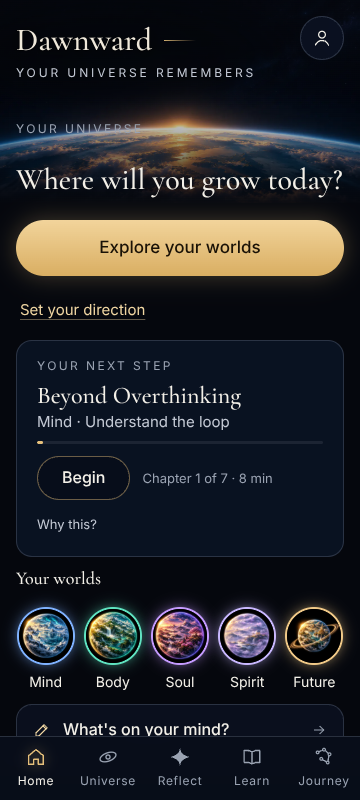
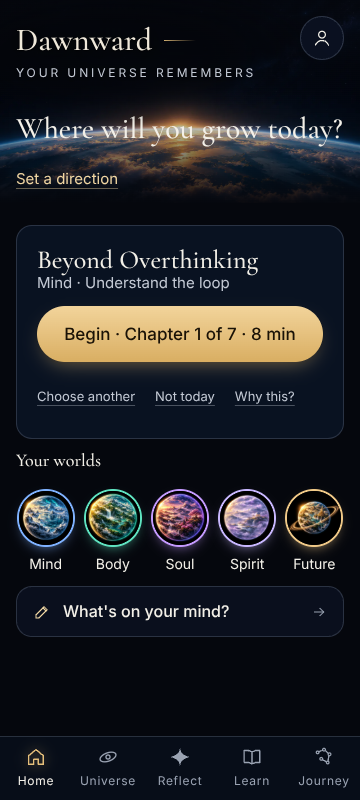
Dawnward: simpler Home and Reflect, from the Impeccable critique
- Home: the next step is the one gold button ("Begin · Chapter 1 of
  7 · 8 min"); the detour button is gone. Choose another, Not today
  and Why this? sit in one visible row of 44 px targets. No progress
  bar until there's progress. Your direction is one quiet line under
  the question.
- Reflect: the name, painting and question follow the world you
  choose. "Private" is a quiet status, not a switch. Speak is a quiet
  round mic. Escape does what Close does. After saving you stay in
  Reflect, with one "Done".
- No labels above headings; glows become real shadows.
- Long sentences across the app shortened, keeping facts and safety
  lines.

Tests: e2e-redesign 53/53; selectors updated in the other suites.

Claude-Session: https://claude.ai/code/session_01VwDdzxXQgm8dNbRYiSeJvs

diff --git a/dawnward/experience/src/home.js b/dawnward/experience/src/home.js
@@ -445,15 +445,18 @@ function main(data, failed) {
     const chips = el("div", { class: "seg", role: "radiogroup", "aria-label": "Which world it belongs to", hidden: true });
     const worldBtn = el("button", { class: "ed-chip", "aria-expanded": "false", "aria-label": `World: ${META[state.draftWorld].name}. Change`, onclick: () => { chips.hidden = !chips.hidden; worldBtn.setAttribute("aria-expanded", String(!chips.hidden)); if (!chips.hidden) chips.querySelector('[aria-checked="true"]')?.focus(); } });
     const drawWorld = () => { worldBtn.replaceChildren(el("span", { class: `ed-dot dot-${state.draftWorld}`, "aria-hidden": "true" }), META[state.draftWorld].name, el("span", { class: "ed-caret", "aria-hidden": "true" }, "▾")); worldBtn.setAttribute("aria-label", `World: ${META[state.draftWorld].name}. Change`); };
-    const privBtn = el("button", { class: "ed-chip", "aria-expanded": "false", "aria-controls": "ed-private", onclick: () => { privacy.hidden = !privacy.hidden; privBtn.setAttribute("aria-expanded", String(!privacy.hidden)); } },
-      el("span", { html: svg(ICON.lock, 14) }), "Private");
+    const privBtn = el("span", { class: "ed-private-tag", title: privacy.textContent }, el("span", { html: svg(ICON.lock, 14) }), "Private");
     for (const k of ORDER) chips.append(el("button", { role: "radio", "aria-checked": String(k === state.draftWorld), onclick: () => {
+      const was = state.draftWorld;
       state.draftWorld = k; chips.querySelectorAll("button").forEach((b) => b.setAttribute("aria-checked", String(b.textContent === META[k].name))); drawWorld(); saveDraft(ta.value, status);
+      // the whole screen follows: name, painting, and the world's own question
+      $("w-name").textContent = META[k].name; $("closeup-img").src = asset(`img/worlds/closeup-${k}.webp`); document.body.dataset.world = k;
+      const q = $("ed-q"); if (q.textContent === META[was].q) q.textContent = META[k].q;
       chips.hidden = true; worldBtn.setAttribute("aria-expanded", "false"); worldBtn.focus();
     } }, META[k].name));
     drawWorld();
     const vstate = el("span", { class: "vstate" }, "Speak");
-    const micBtn = SR ? el("button", { class: "mic quietmic", "aria-pressed": "false", onclick: () => toggleSpeech(micBtn, vstate, ta, status) }, el("span", { class: "mic-orb", html: svg(ICON.mic, 18) }), vstate) : null;
+    const micBtn = SR ? el("button", { class: "mic quietmic", "aria-pressed": "false", "aria-label": "Speak", onclick: () => toggleSpeech(micBtn, vstate, ta, status) }, el("span", { class: "mic-orb", html: svg(ICON.mic, 18) }), vstate) : null;
     ta.addEventListener("input", () => { fit(); clearTimeout(autosave); autosave = setTimeout(() => saveDraft(ta.value, status), 400); });
     sheet(META[state.draftWorld].q, null,
       el("div", { class: "ed-meta" }, worldBtn, privBtn), chips, privacy,
@@ -573,18 +576,20 @@ function main(data, failed) {
       el("div", { class: "actions" }, el("button", { class: "ghost", onclick: () => goHome() }, "Return to your galaxy")));
   }
   function showNewStar(id, reply) {
-    quiet(false);
+    quiet(true);
     const s = id && starById(id);
     if (!s) { sheet("Kept", null, el("p", {}, reply ?? "Kept, word for word."), el("div", { class: "actions" }, el("button", { class: "primary", onclick: () => openMemories() }, "See your memories"))); return; }
     state.selStar = id; highlight();
     const sug = suggestions().find((x) => x.a === id || x.b === id);
-    sheet(`A new star in ${META[s.world].name}`, longDate(s.date),
+    sheet(`A new star in ${META[s.world].name}`, null,
+      el("p", { class: "quiet small" }, longDate(s.date)),
       el("blockquote", { class: "said" }, el("p", {}, s.excerpt)),
       el("p", { class: "quiet" }, reply ?? `Kept ${keptWhere}, word for word.`),
       sug ? connectionCard(sug, () => showNewStar(id, reply)) : el("p", { class: "quiet" }, "One evening is a note, not a pattern. Nothing is concluded from it."),
       el("div", { class: "actions" },
-        el("button", { class: "primary", onclick: () => openMemories({ select: id }) }, "See it in your memories"),
-        el("button", { class: "ghost", onclick: () => { worldIntro(state.world); $("w-q").focus(); } }, `Back to ${META[state.world].name}`)));
+        el("button", { class: "primary", onclick: () => closeEditor() }, "Done"),
+        el("button", { class: "text-btn", onclick: () => { quiet(false); openMemories({ select: id }); } }, "See it in your Journey")));
+    wbody.querySelector(".text-btn.back")?.remove();
   }
 
   // ----- possible connections: a shared word between two of your own evenings -----
@@ -1061,21 +1066,18 @@ function main(data, failed) {
   const direction = () => device.read(DIRECTION, null);
   function nextCard(pick) {
     const { m } = pick, total = m.steps.length;
-    const meta = pick.resume ? `${pick.step + 1} of ${total}` : m.chapter ? `Chapter ${m.chapter} of ${chaptersIn(m)} · ${m.minutes} min` : `${m.minutes} min`;
+    const meta = pick.resume ? `${pick.step + 1} of ${total} · ${m.minutes} min` : m.chapter ? `Chapter ${m.chapter} of ${chaptersIn(m)} · ${m.minutes} min` : `${m.minutes} min`;
     return el("article", { class: "nextcard", "aria-labelledby": "c-title" },
-      el("p", { class: "kicker" }, "Your next step"),
       el("h3", { id: "c-title", class: "c-title" }, m.title),
-      el("p", { class: "c-part" }, `${META[m.world].name} · ${m.part.replace(/^Chapter \d+: /, "")}${m.status === "draft" ? " · draft" : ""}`),
-      el("div", { class: "c-bar", role: "progressbar", "aria-label": "Your progress through this expedition", "aria-valuemin": "0", "aria-valuemax": String(total), "aria-valuenow": String(pick.step), "aria-valuetext": pick.step ? `${pick.step + 1} of ${total}` : "Not started" },
-        el("span", { style: `width:${Math.round((100 * pick.step) / total)}%` })),
+      el("p", { class: "c-part" }, `${META[m.world].name} · ${m.part.replace(/^Chapter \d+: /, "")}`),
+      pick.step ? el("div", { class: "c-bar", role: "progressbar", "aria-label": "Progress", "aria-valuemin": "0", "aria-valuemax": String(total), "aria-valuenow": String(pick.step), "aria-valuetext": `${pick.step + 1} of ${total}` },
+        el("span", { style: `width:${Math.round((100 * pick.step) / total)}%` })) : null,
+      el("button", { class: "primary wide", onclick: () => explore.play(m.id, { from: fromHome }) }, `${pick.resume ? "Continue" : "Begin"} · ${meta}`),
       el("div", { class: "c-row" },
-        el("button", { class: "ghost", onclick: () => explore.play(m.id, { from: fromHome }) }, pick.resume ? "Continue" : "Begin"),
-        el("span", { class: "c-meta" }, meta)),
-      el("details", { class: "c-why" }, el("summary", {}, "Why this?"),
-        el("p", {}, `${pick.why} Suggestions come only from what you've done in Dawnward${data.local ? ", on this device" : ""}. Nothing is read from your reflections.`),
-        el("div", { class: "c-more" },
-          el("button", { class: "text-btn", onclick: () => explore.open() }, "Choose another"),
-          el("button", { class: "text-btn", onclick: () => { try { localStorage.setItem(COMPASS_HIDE, localDay()); } catch {} drawEarth(); $("e-title").focus(); announce("No suggestion today."); } }, "Not today"))));
+        el("button", { class: "text-btn", onclick: () => explore.open() }, "Choose another"),
+        el("button", { class: "text-btn", onclick: () => { try { localStorage.setItem(COMPASS_HIDE, localDay()); } catch {} drawEarth(); $("e-title").focus(); announce("No suggestion today."); } }, "Not today"),
+        el("details", { class: "c-why" }, el("summary", {}, "Why this?"),
+          el("p", {}, `${pick.why} Based only on what you've done here, never on what you write.`))));
   }
   /** Your direction: one line you choose, kept on this device, in a small sheet. */
   function directionSheet() {
@@ -1094,13 +1096,13 @@ function main(data, failed) {
         $("dir-h").focus(); return;
       }
       const ok = t ? device.write(DIRECTION, { text: t, at: new Date().toISOString() }) : device.remove(DIRECTION);
-      if (!ok) { err.textContent = "I couldn't keep that on this device."; return; }
+      if (!ok) { err.textContent = "Couldn't save it on this device. Copy it somewhere safe and try again."; return; }
       close(); drawEarth(); announce(t ? "Direction saved." : "Direction cleared.");
     };
     dlg.append(el("h2", { id: "dir-h", class: "s-title" }, "Your direction"),
       el("label", { id: "dir-q", for: "dir-text" }, "What do you want to change?"), ta, err,
       el("div", { class: "actions" }, el("button", { class: "primary", onclick: keep }, "Save"), el("button", { class: "ghost", onclick: close }, "Cancel")),
-      el("p", { class: "quiet small" }, data.local ? "Kept on this device." : "Kept in your Dawnward."));
+      el("p", { class: "quiet small" }, data.local ? "Only on this device." : "Only in your Dawnward."));
     dlg.addEventListener("close", () => dlg.remove());
     document.body.append(dlg);
     dlg.showModal();
@@ -1116,27 +1118,29 @@ function main(data, failed) {
     $("e-crumbs").replaceChildren();
     const dir = direction();
     const next = !pick
-      ? el("article", { class: "nextcard" }, el("p", { class: "kicker" }, "Your next step"), el("h3", { class: "c-title" }, "Every open expedition is done"), el("p", { class: "c-part" }, "More are being written. Reflecting is always here."))
+      ? null
       : hidden
-        ? el("div", { class: "nextcard slim" }, el("p", { class: "quiet" }, "No suggestion today."),
+        ? el("div", { class: "nextcard slim" }, el("p", { class: "quiet" }, "No suggestion today"),
             el("button", { class: "text-btn", onclick: () => { try { localStorage.removeItem(COMPASS_HIDE); } catch {} drawEarth(); } }, "Show it"))
         : nextCard(pick);
+    const reflectRow = el("button", { class: "row e-reflect", onclick: () => openEditor(state.lastWorld) },
+      el("span", { class: "ni", html: svg(ICON.pen, 18) }), el("span", { class: "rtitle" }, "What's on your mind?"), el("span", { class: "rgo", html: svg(ICON.arrow, 16) }));
+    // with no next step, writing becomes the one primary action
+    const writeFirst = !pick || hidden ? el("button", { class: "primary wide", onclick: () => openEditor(state.lastWorld) }, "What's on your mind?") : null;
+    $("e-dir").replaceChildren(dir
+      ? el("button", { class: "e-dir-line", id: "e-dir-btn", onclick: directionSheet, "aria-label": `Your direction: ${dir.text}. Edit` }, el("span", { class: "e-dir-to" }, "Toward"), ` ${dir.text}`)
+      : el("button", { class: "text-btn", id: "e-dir-btn", onclick: directionSheet }, "Set a direction"));
     $("e-body").replaceChildren(...[
-      found ? el("div", { class: "card found", role: "status" }, el("p", { class: "kicker" }, "Just discovered"), el("p", { class: "statement" }, found.title), el("p", { class: "why" }, found.why)) : "",
-      el("div", { class: "e-actions" },
-        el("button", { class: "primary wide", onclick: () => goHome() }, "Explore your worlds"),
-        dir ? el("p", { class: "e-dir" }, el("span", { class: "kicker" }, "Your direction"), el("span", { class: "e-dir-text" }, dir.text),
-              el("button", { class: "text-btn", id: "e-dir-btn", onclick: directionSheet, "aria-label": "Edit your direction" }, "Edit"))
-            : el("button", { class: "text-btn e-dir-set", id: "e-dir-btn", onclick: directionSheet }, "Set your direction")),
+      found ? el("div", { class: "card found", role: "status" }, el("p", { class: "statement" }, found.title), el("p", { class: "why" }, found.why)) : null,
       next,
+      writeFirst,
       active[0] ? el("button", { class: "row e-wait", onclick: () => explore.review(active[0].id) },
         el("span", { class: "rtext" }, el("span", { class: "rsub" }, "How did it go?"), el("span", { class: "rtitle" }, active[0].action)), el("span", { class: "rgo", html: svg(ICON.arrow, 16) })) : null,
       el("section", { "aria-labelledby": "e-worlds" },
         el("h3", { id: "e-worlds", class: "e-h" }, "Your worlds"),
         el("div", { class: "wplanets" }, ORDER.map((w) => el("button", { class: `planet-${w}`, onclick: () => goWorld(w), "aria-label": `${META[w].name}: ${META[w].kicker.toLowerCase()}` },
           el("img", { src: asset(`img/worlds/planet-${w}-640.webp`), alt: "", loading: "lazy" }), el("span", {}, META[w].name))))),
-      el("button", { class: "row e-reflect", onclick: () => openEditor(state.lastWorld) },
-        el("span", { class: "ni", html: svg(ICON.pen, 18) }), el("span", { class: "rtitle" }, "What's on your mind?"), el("span", { class: "rgo", html: svg(ICON.arrow, 16) }))].filter(Boolean));
+      writeFirst ? null : reflectRow].filter(Boolean));
   }
   // ----- Journey: milestones, discoveries and the actions you chose -----
   function drawMiles(box) {
@@ -1168,7 +1172,7 @@ function main(data, failed) {
   addEventListener("keydown", (e) => {
     if (e.key !== "Escape" || state.mode === "text") return;
     if (!$("m-detail").hidden) return closeMemory();
-    if (state.place === "world") goHome();
+    if (state.place === "world") { if (document.body.classList.contains("quiet")) closeEditor(); else goHome(); }
     else if (state.place === "creative") creative.escape();
     else if (state.place !== "earth") openEarth();
   });

diff --git a/dawnward/experience/home.html b/dawnward/experience/home.html
@@ -182,25 +182,27 @@
   .c-why p { color:var(--dim); font-size:15px; line-height:1.5; }
   .c-more { display:flex; gap:var(--s5); flex-wrap:wrap; margin-top:calc(-1 * var(--s2)); }
   .compass .c-why { margin-top:calc(-1 * var(--s1)); }
-  /* ---- Home, redesigned: one primary action, a compact next step ---- */
-  .e-actions { display:flex; flex-direction:column; align-items:flex-start; gap:var(--s3); }
-  .e-actions .primary.wide { width:100%; min-height:56px; font-size:17px; }
-  .e-dir { display:flex; flex-wrap:wrap; align-items:baseline; gap:var(--s1) var(--s2); }
-  .e-dir .kicker { width:100%; color:var(--gold-ink); }
-  .e-dir-text { font-family:var(--display); font-size:20px; line-height:1.3; }
-  .nextcard { display:flex; flex-direction:column; gap:var(--s2); padding:var(--s4) var(--s5); border-radius:var(--r-card); background:rgba(10,20,38,.78); border:1px solid var(--edge); }
-  .nextcard .kicker { color:var(--faint); }
-  .nextcard .c-title { font-family:var(--display); font-weight:500; font-size:clamp(24px, 6.4vw, 30px); line-height:1.1; text-transform:none; letter-spacing:0; color:var(--ink); }
+  /* ---- Home, redesigned: the next step is the one primary action ---- */
+  .e-dir { margin-top:calc(-1 * var(--s3)); }
+  .e-dir-line { display:inline; text-align:left; min-height:var(--tap); padding:var(--s2) 0; font-family:var(--display); font-size:19px; line-height:1.35; color:var(--dim); }
+  .e-dir-line:hover, .e-dir-line:focus-visible { color:var(--ink); }
+  .e-dir-to { font-family:var(--ui); font-size:13px; color:var(--gold-ink); margin-right:var(--s1); }
+  .e-dir .text-btn { padding:0; }
+  .nextcard { display:flex; flex-direction:column; gap:var(--s3); padding:var(--s5); border-radius:var(--r-card); background:rgba(10,20,38,.78); border:1px solid var(--edge); }
+  .nextcard .c-title { font-family:var(--display); font-weight:500; font-size:clamp(26px, 7vw, 32px); line-height:1.1; text-transform:none; letter-spacing:0; color:var(--ink); margin-bottom:calc(-1 * var(--s2)); }
   .nextcard .c-part { color:var(--dim); font-size:var(--t-second); }
-  .nextcard .c-row { display:flex; align-items:center; gap:var(--s3); margin-top:var(--s1); }
-  .nextcard .c-meta { color:var(--faint); font-size:var(--t-meta); text-transform:none; letter-spacing:0; }
+  .nextcard .primary.wide { width:100%; min-height:56px; font-size:17px; }
   .nextcard .c-bar { height:3px; border-radius:3px; background:rgba(255,255,255,.08); overflow:hidden; }
-  .nextcard .c-bar span { display:block; height:100%; background:var(--gold); }
-  .nextcard .c-why summary { color:var(--dim); font-size:var(--t-meta); cursor:pointer; min-height:32px; display:inline-flex; align-items:center; }
-  .nextcard .c-why[open] { display:flex; flex-direction:column; gap:var(--s2); }
-  .nextcard .c-why p { color:var(--dim); font-size:var(--t-second); }
-  .nextcard .c-more { display:flex; gap:var(--s4); }
-  .nextcard.slim { flex-direction:row; align-items:center; justify-content:space-between; }
+  .nextcard .c-bar span { display:block; height:100%; background:var(--gold); min-width:0; }
+  .nextcard .c-row { display:flex; flex-wrap:wrap; align-items:center; gap:0 var(--s5); }
+  .nextcard .c-row .text-btn { padding:0; font-size:var(--t-meta); color:var(--dim); text-decoration-color:rgba(195,201,212,.35); }
+  .nextcard .c-why summary { color:var(--dim); font-size:var(--t-meta); cursor:pointer; min-height:var(--tap); display:inline-flex; align-items:center; text-decoration:underline; text-underline-offset:4px; text-decoration-color:rgba(195,201,212,.35); list-style:none; }
+  .nextcard .c-why summary::-webkit-details-marker { display:none; }
+  .nextcard .c-why[open] { flex-basis:100%; }
+  .nextcard .c-why p { color:var(--dim); font-size:var(--t-second); padding-bottom:var(--s2); }
+  .nextcard.slim { flex-direction:row; align-items:center; justify-content:space-between; padding:var(--s3) var(--s5); }
+  #earth .e-actions, #earth > .ycol > .primary { width:100%; }
+  #e-body > .primary.wide { width:100%; min-height:56px; font-size:17px; }
   .e-h { font-family:var(--display); font-weight:500; font-size:var(--t-card); text-transform:none; letter-spacing:0; color:var(--ink); margin-bottom:var(--s3); }
   .e-reflect .ni { color:var(--gold-ink); display:flex; }
   .e-reflect .rtitle { flex:1; }
@@ -219,8 +221,12 @@
   .dot-mind { color:var(--mind); } .dot-body { color:var(--body); } .dot-soul { color:var(--soul); } .dot-spirit { color:var(--spirit); } .dot-future { color:var(--future); }
   .ed-caret { font-size:11px; opacity:.7; }
   .ed-private { margin-top:calc(-1 * var(--s1)); }
+  .ed-private-tag { display:inline-flex; align-items:center; gap:var(--s1); min-height:var(--tap); padding:0 var(--s1); font-size:13px; color:var(--faint); }
+  .mic.quietmic { width:var(--tap); padding:0; justify-content:center; border-color:var(--edge); background:transparent; }
+  .mic.quietmic .vstate { display:none; }
+  .mic.quietmic[aria-pressed="true"] { width:auto; padding:0 var(--s4) 0 var(--s2); }
+  .mic.quietmic[aria-pressed="true"] .vstate { display:inline; }
   #ed-status:empty { display:none; }
-  .mic.quietmic { min-height:var(--tap); padding:0 var(--s4) 0 var(--s2); }
   body.quiet #w-crumbs { display:none; }
   body.quiet #closeup::after { content:""; position:absolute; inset:0; background:linear-gradient(180deg, rgba(5,7,13,.55) 0%, rgba(5,7,13,.35) 30%, rgba(5,7,13,.8) 60%, #05070D 85%); }
   body.quiet #ed-q { font-size:clamp(28px, 7.6vw, 36px); color:var(--ink); text-shadow:0 1px 3px rgba(0,0,0,.9), 0 2px 18px rgba(0,0,0,.7); }
@@ -230,7 +236,7 @@
   .sec-head h3 { font-family:var(--display); font-size:22px; font-weight:600; }
   .wplanets { display:grid; grid-template-columns:repeat(5, 1fr); gap:var(--s2); }
   .wplanets button { display:flex; flex-direction:column; align-items:center; gap:var(--s2); min-height:var(--tap); padding:var(--s1) 0; border-radius:var(--s4); font-size:14px; }
-  .wplanets img { width:min(64px, 15vw); aspect-ratio:1; border-radius:50%; object-fit:cover; box-shadow:0 0 0 2px currentColor, 0 0 16px -2px currentColor; }
+  .wplanets img { width:min(64px, 15vw); aspect-ratio:1; border-radius:50%; object-fit:cover; box-shadow:0 0 0 2px currentColor, 0 6px 14px -6px currentColor; }
   .wplanets button > span { color:var(--ink); }
   .wplanets button:hover img, .wplanets button:focus-visible img { transform:scale(1.06); }
   .nextrow { display:grid; grid-template-columns:repeat(3, 1fr); gap:var(--s3); }
@@ -310,7 +316,7 @@
   .label { font-size:var(--t-second); color:var(--dim); }
   .statement { font-family:var(--display); font-size:var(--t-card); line-height:1.25; }
   .primary, .ghost, .danger { min-height:var(--tap); padding:0 var(--s6); border-radius:var(--r-pill); font-size:var(--t-btn); font-weight:500; display:inline-flex; align-items:center; justify-content:center; gap:var(--s2); }
-  .primary { background:linear-gradient(180deg, #F2D49B, #D9AE62); color:#1A1206; box-shadow:0 0 24px rgba(230,192,123,.3); }
+  .primary { background:linear-gradient(180deg, #F2D49B, #D9AE62); color:#1A1206; box-shadow:0 8px 20px -8px rgba(230,192,123,.55), 0 2px 4px rgba(0,0,0,.35); }
   .primary.wide { width:100%; }
   .ghost { border:1px solid var(--edge-strong); color:var(--ink); background:rgba(6,10,20,.55); }
   .danger { border:1px solid rgba(227,154,146,.6); color:var(--danger); background:rgba(6,10,20,.55); }
@@ -443,7 +449,7 @@
   .small { font-size:13px; }
   .field { width:100%; min-height:var(--tap); padding:0 var(--s4); border-radius:var(--s3); background:rgba(8,14,28,.88); border:1px solid rgba(214,228,255,.32); font-size:16px; }
   .field:focus-visible { outline:2px solid var(--gold); outline-offset:2px; }
-  .card.found { border-color:var(--edge-strong); box-shadow:0 0 30px rgba(230,192,123,.15); }
+  .card.found { border-color:var(--edge-strong); box-shadow:0 10px 28px -12px rgba(230,192,123,.35); }
   .safety { font-size:14px; }
   .journey { list-style:none; display:flex; flex-direction:column; gap:var(--s2); }
   .journey li { display:flex; flex-direction:column; gap:2px; padding:var(--s3) 0; border-bottom:1px solid var(--edge); }
@@ -766,8 +772,8 @@
     <div class="ycol">
       <div id="e-crumbs"></div>
       <div class="e-hero" aria-hidden="true"></div>
-      <p class="kicker e-kick">Your universe</p>
       <h2 id="e-title" tabindex="-1">Where will you grow today?</h2>
+      <div id="e-dir" class="e-dir"></div>
       <div id="e-body" class="ebody"></div>
     </div>
   </section>

diff --git a/dawnward/docs/redesign/README.md b/dawnward/docs/redesign/README.md
@@ -113,3 +113,25 @@ New reusable pieces:
 - Whether someone new to Dawnward can find their way without help. That's the brief's real success test: watch one or two people use Home and Reflect without instructions.
 
 **Your approval is needed for Phase 5:** applying the same system to Universe (the map first), Learn (a featured journey), Expeditions (one decision at a time, starting with the Thought Labyrinth) and Journey (a summary line, a constellation, then a timeline).
+
+## Round 2: Impeccable critique, then edits (2026-11-01)
+Bianno's direction: never over-explain; simple; everything makes sense. Two independent reviews ran (a design review, and the automated detector with browser measurements), and their findings were applied:
+
+| Finding | Fix |
+|---|---|
+| Home's gold button ("Explore your worlds") was a detour that asked "where?" again; the real next step was a small outlined button | The next step is now the one gold button: "Begin · Chapter 1 of 7 · 8 min". With no next step, the gold button is "What's on your mind?" |
+| "Your direction" was a big gold block that did nothing | It's one quiet line under the question ("Toward …"), tap to edit. Its sheet says "Only on this device." |
+| Changing the world in Reflect left the old name, painting and question | The whole screen follows the world you choose |
+| After saving, breadcrumbs and the Universe tab came back | You stay in Reflect; one gold "Done", and "See it in your Journey" as a link |
+| "Choose another" and "Not today" were hidden under "Why this?"; "Why this?" was 32 px | All three are visible, each a 44 px target |
+| "Private" looked like a switch | A quiet lock-and-word status, not a button; the full sentence is still read to screen readers |
+| Labels above headings ("Your universe", "Your next step", the date) | Removed, or moved below the heading; Impeccable's craft floor bans them |
+| Glowing halos round buttons, planets and the discovery card | Real drop shadows with an offset |
+| Escape while writing did something different from Close | Escape now does what Close does |
+| Speak was as loud as Save | A quiet round mic button; it says "Listening…" only while listening |
+| An unstarted expedition showed a gold stub of progress | No bar until there's progress |
+| Long sentences across the app (help, empty states, notes) | Shortened, keeping the facts and safety lines |
+
+The detector now reports no glow on Home or Reflect. What's left are literal lights elsewhere, two images whose source is set by script, and Inter as the UI font: by design, paired with Cormorant.
+
+`e2e-redesign.cjs` now has 53 checks, including each fix above.
